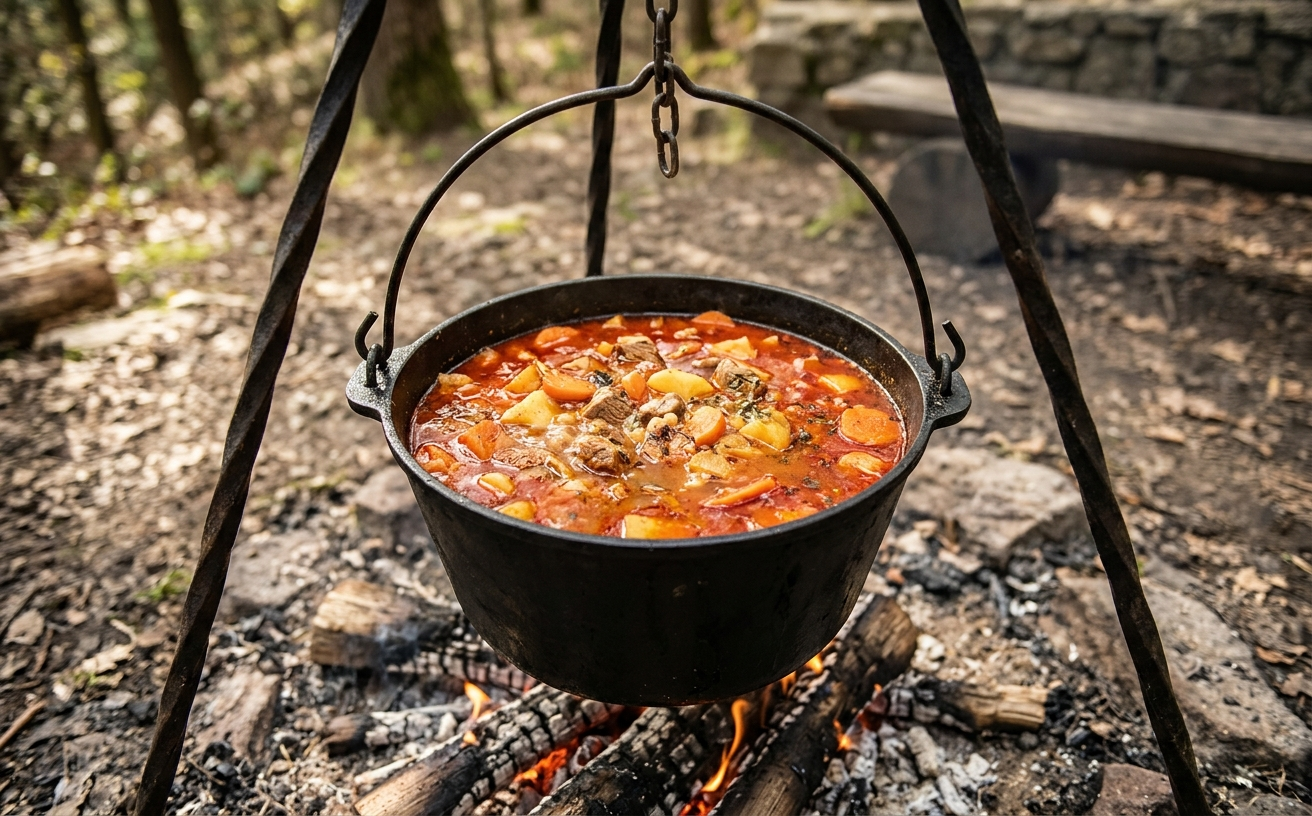
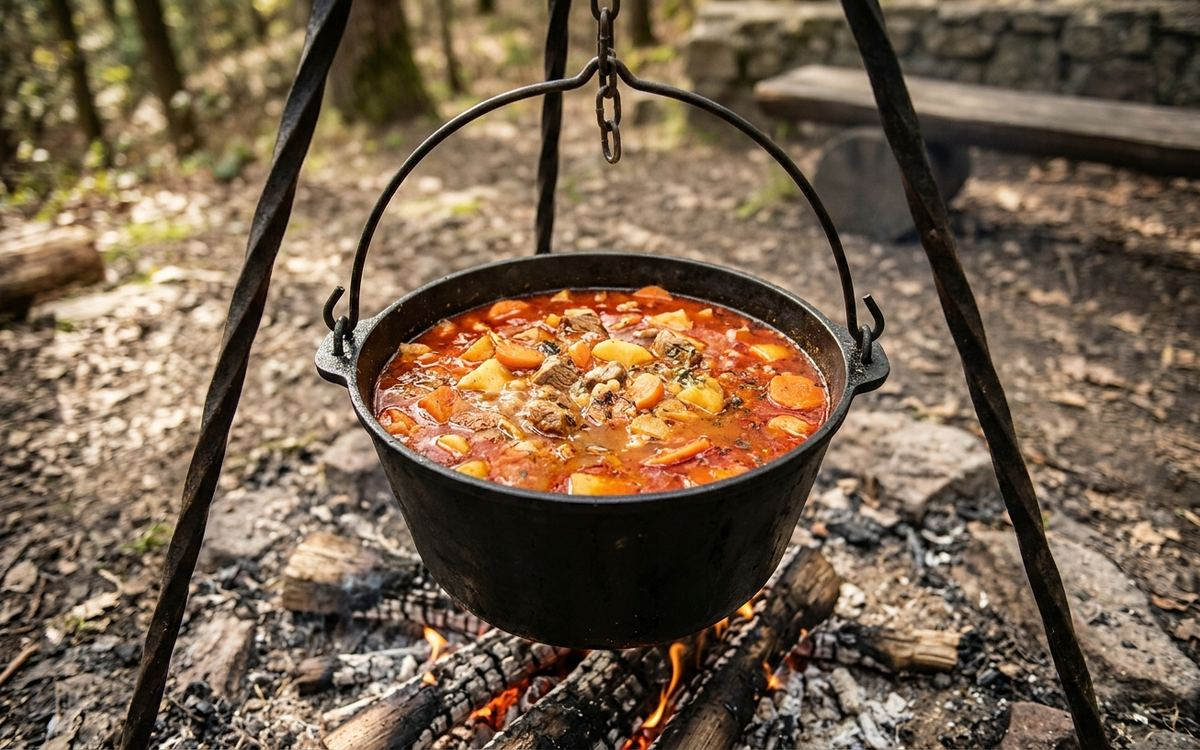
Оновлено картинки рецептів

diff --git a/service-worker.js b/service-worker.js
@@ -1,6 +1,6 @@
 /* CookBook Service Worker.
  * Bump CACHE_VERSION whenever any file in APP_SHELL (or recipes.json) changes. */
-const CACHE_VERSION = 'v25';
+const CACHE_VERSION = 'v26';
 const CACHE_PREFIX = 'cookbook-';
 const OLD_CACHE_PREFIX = 'ninjacookbook-';
 const SHELL_CACHE = `${CACHE_PREFIX}shell-${CACHE_VERSION}`;

diff --git a/tools/resize_photos.py b/tools/resize_photos.py
@@ -1,0 +1,48 @@
+#!/usr/bin/env python3
+"""Resizes recipe photos to 1200x750 (16:10) JPEG without EXIF metadata.
+
+Usage:
+    python tools/resize_photos.py photos_original
+"""
+import sys
+from pathlib import Path
+
+from PIL import Image, ImageOps
+
+ROOT = Path(__file__).resolve().parent.parent
+OUT_DIR = ROOT / "images"
+SIZE = (1200, 750)
+QUALITY = 78
+MAX_BYTES = 180 * 1024
+
+
+def process(src: Path, dst: Path) -> int:
+    with Image.open(src) as im:
+        im = ImageOps.exif_transpose(im).convert("RGB")
+        im = ImageOps.fit(im, SIZE, Image.LANCZOS, centering=(0.5, 0.5))
+        # Pillow does not copy EXIF unless passed explicitly, so metadata is dropped.
+        im.save(dst, "JPEG", quality=QUALITY, optimize=True, progressive=True)
+    return dst.stat().st_size
+
+
+def main() -> int:
+    if len(sys.argv) != 2:
+        print(__doc__)
+        return 1
+    src_dir = Path(sys.argv[1])
+    files = sorted(p for p in src_dir.iterdir() if p.suffix.lower() in {".jpg", ".jpeg", ".png", ".webp"})
+    if not files:
+        print(f"No images found in {src_dir}")
+        return 1
+
+    OUT_DIR.mkdir(exist_ok=True)
+    for src in files:
+        dst = OUT_DIR / f"{src.stem.lower()}.jpg"
+        size = process(src, dst)
+        status = "OK" if size <= MAX_BYTES else "TOO BIG, lower QUALITY"
+        print(f"{dst.name}: {size / 1024:.0f} KB  {status}")
+    return 0
+
+
+if __name__ == "__main__":
+    sys.exit(main())
